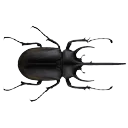
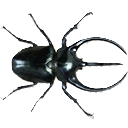
bugs size3

Changed region(s): [[0.0, 0.0938, 1.0, 0.9375], [0.0, 0.75, 0.0625, 0.7812]]

diff --git a/client/src/components/Game/DoorAnimation.jsx b/client/src/components/Game/DoorAnimation.jsx
@@ -1,21 +1,56 @@
 // client/src/components/Game/DoorAnimation.jsx
-// 修正版（アニメーションが正しく動くように）
+// 画像プリロード対応版
 
-import React, { useState, useEffect } from 'react';
+import React, { useState, useEffect, useRef } from 'react';
 
 const DoorAnimation = ({ phase, onAnimationComplete }) => {
   const [currentFrame, setCurrentFrame] = useState(0);
   const [showStartText, setShowStartText] = useState(false);
   const [textScale, setTextScale] = useState(0.5);
   const [textOpacity, setTextOpacity] = useState(0);
+  const [imagesLoaded, setImagesLoaded] = useState(false); // ← 画像読み込み完了フラグ
+  
+  const doorImagesRef = useRef([]); // ← プリロードした画像を保持
+  const totalFrames = 9; // frame-0 ~ frame-8
 
-  const totalFrames = 6; // frame-0 ~ frame-5
-
+  // 🔥 画像をプリロードする
   useEffect(() => {
+    console.log('🖼 扉画像のプリロード開始...');
+    const images = [];
+    let loadedCount = 0;
+
+    for (let i = 0; i < totalFrames; i++) {
+      const img = new Image();
+      img.src = `/images/door-animation/frame-${i}.png`;
+      
+      img.onload = () => {
+        loadedCount++;
+        console.log(`✅ 扉画像 ${i} 読み込み完了 (${loadedCount}/${totalFrames})`);
+        
+        if (loadedCount === totalFrames) {
+          console.log('🎉 全ての扉画像の読み込み完了！');
+          setImagesLoaded(true);
+        }
+      };
+      
+      img.onerror = () => {
+        console.error(`❌ 扉画像 ${i} の読み込み失敗`);
+      };
+      
+      images[i] = img;
+    }
+    
+    doorImagesRef.current = images;
+  }, []);
+
+  // 扉アニメーション（画像読み込み完了後のみ実行）
+  useEffect(() => {
+    if (!imagesLoaded) return; // ← 画像が読み込まれるまで待つ
+
     if (phase === 'opening') {
       console.log('🚪 扉を開きます...');
       let frame = 0;
-      setCurrentFrame(0); // ← 最初のフレームから開始
+      setCurrentFrame(0);
       
       const frameDuration = 2000 / totalFrames; // 約333ms/フレーム
       
@@ -27,7 +62,6 @@ const DoorAnimation = ({ phase, onAnimationComplete }) => {
         if (frame >= totalFrames - 1) {
           clearInterval(frameInterval);
           console.log('🚪 扉が開ききりました');
-          // 開き終わったら「ゲームスタート！」を表示
           setTimeout(() => {
             setShowStartText(true);
           }, 100);
@@ -49,7 +83,6 @@ const DoorAnimation = ({ phase, onAnimationComplete }) => {
           clearInterval(frameInterval);
           setCurrentFrame(0);
           console.log('🚪 扉が閉じました');
-          // 閉じ終わったら完了通知
           if (onAnimationComplete) {
             onAnimationComplete();
           }
@@ -60,7 +93,7 @@ const DoorAnimation = ({ phase, onAnimationComplete }) => {
 
       return () => clearInterval(frameInterval);
     }
-  }, [phase, onAnimationComplete]);
+  }, [phase, onAnimationComplete, imagesLoaded]); // ← imagesLoaded を依存配列に追加
 
   // 「ゲームスタート！」テキストアニメーション
   useEffect(() => {
@@ -76,20 +109,17 @@ const DoorAnimation = ({ phase, onAnimationComplete }) => {
         const t = progress / duration; // 0〜1
         
         if (t <= 0.5) {
-          // 0.0～0.5秒: 拡大しながらフェードイン
-          setTextScale(0.5 + t * 3); // 0.5 → 2.0
-          setTextOpacity(t * 2); // 0 → 1
+          setTextScale(0.5 + t * 3);
+          setTextOpacity(t * 2);
         } else {
-          // 0.5～1.0秒: さらに拡大しながらフェードアウト
-          setTextScale(2.0 + (t - 0.5) * 4); // 2.0 → 4.0
-          setTextOpacity(2 - t * 2); // 1 → 0
+          setTextScale(2.0 + (t - 0.5) * 4);
+          setTextOpacity(2 - t * 2);
         }
 
         if (progress >= duration) {
           clearInterval(textInterval);
           setShowStartText(false);
           console.log('✨ ゲームスタート演出完了 → ゲーム開始');
-          // アニメーション完了、ゲーム開始
           setTimeout(() => {
             if (onAnimationComplete) {
               onAnimationComplete();
@@ -107,7 +137,14 @@ const DoorAnimation = ({ phase, onAnimationComplete }) => {
     return (
       <div 
         className="relative w-full h-full cursor-pointer"
-        onClick={onAnimationComplete}
+        onClick={() => {
+          // 画像が読み込まれてからアニメーション開始
+          if (imagesLoaded) {
+            onAnimationComplete();
+          } else {
+            console.warn('⚠ 画像読み込み中...少々お待ちください');
+          }
+        }}
       >
         <img 
           src="/images/door-animation/frame-0.png" 
@@ -116,12 +153,14 @@ const DoorAnimation = ({ phase, onAnimationComplete }) => {
         />
         <div className="absolute inset-0 flex items-center justify-center">
           <div className="text-center">
-            <div className="text-4xl font-bold text-white bg-black bg-opacity-50 px-8 py-4 rounded-lg animate-pulse">
-              クリックでスタート
+            <div className={`text-4xl font-bold text-white bg-black bg-opacity-50 px-8 py-4 rounded-lg ${imagesLoaded ? 'animate-pulse' : ''}`}>
+              {imagesLoaded ? 'クリックでスタート' : '読み込み中...'}
             </div>
-            <p className="text-white text-sm mt-4 bg-black bg-opacity-30 px-4 py-2 rounded">
-              💡 ゲーム中はESCキーで一時停止できます
-            </p>
+            {imagesLoaded && (
+              <p className="text-white text-sm mt-4 bg-black bg-opacity-30 px-4 py-2 rounded">
+                💡 ゲーム中はESCキーで一時停止できます
+              </p>
+            )}
           </div>
         </div>
       </div>

diff --git a/client/src/utils/beetleData.js b/client/src/utils/beetleData.js
@@ -84,7 +84,7 @@ export const beetleTypes = {
     count: 2,
     cost: 30,
     color: '#A0522D',
-    size: 18.8,
+    size: 19.9,
     imageScale: 1.5,
     gachaRate: 0.005,
     purchasePrice: 50000,
@@ -100,7 +100,7 @@ export const beetleTypes = {
     count: 0,
     cost: 29,
     color: '#2C1810',
-    size: 18,
+    size: 18.3,
     imageScale: 1.55,
     gachaRate: 0.005,
     purchasePrice: 50000,
@@ -150,7 +150,7 @@ export const beetleTypes = {
     count: 1,
     cost: 40,
     color: '#b2c28eff',
-    size: 20.8,
+    size: 21.0,
     imageScale: 1.9,
     gachaRate: 0.00125,
     purchasePrice: 200000,
@@ -166,7 +166,7 @@ export const beetleTypes = {
     count: 0,
     cost: 39,
     color: '#293859ff',
-    size: 19.8,
+    size: 20.1,
     imageScale: 1.8,
     gachaRate: 0.00125,
     purchasePrice: 200000,
